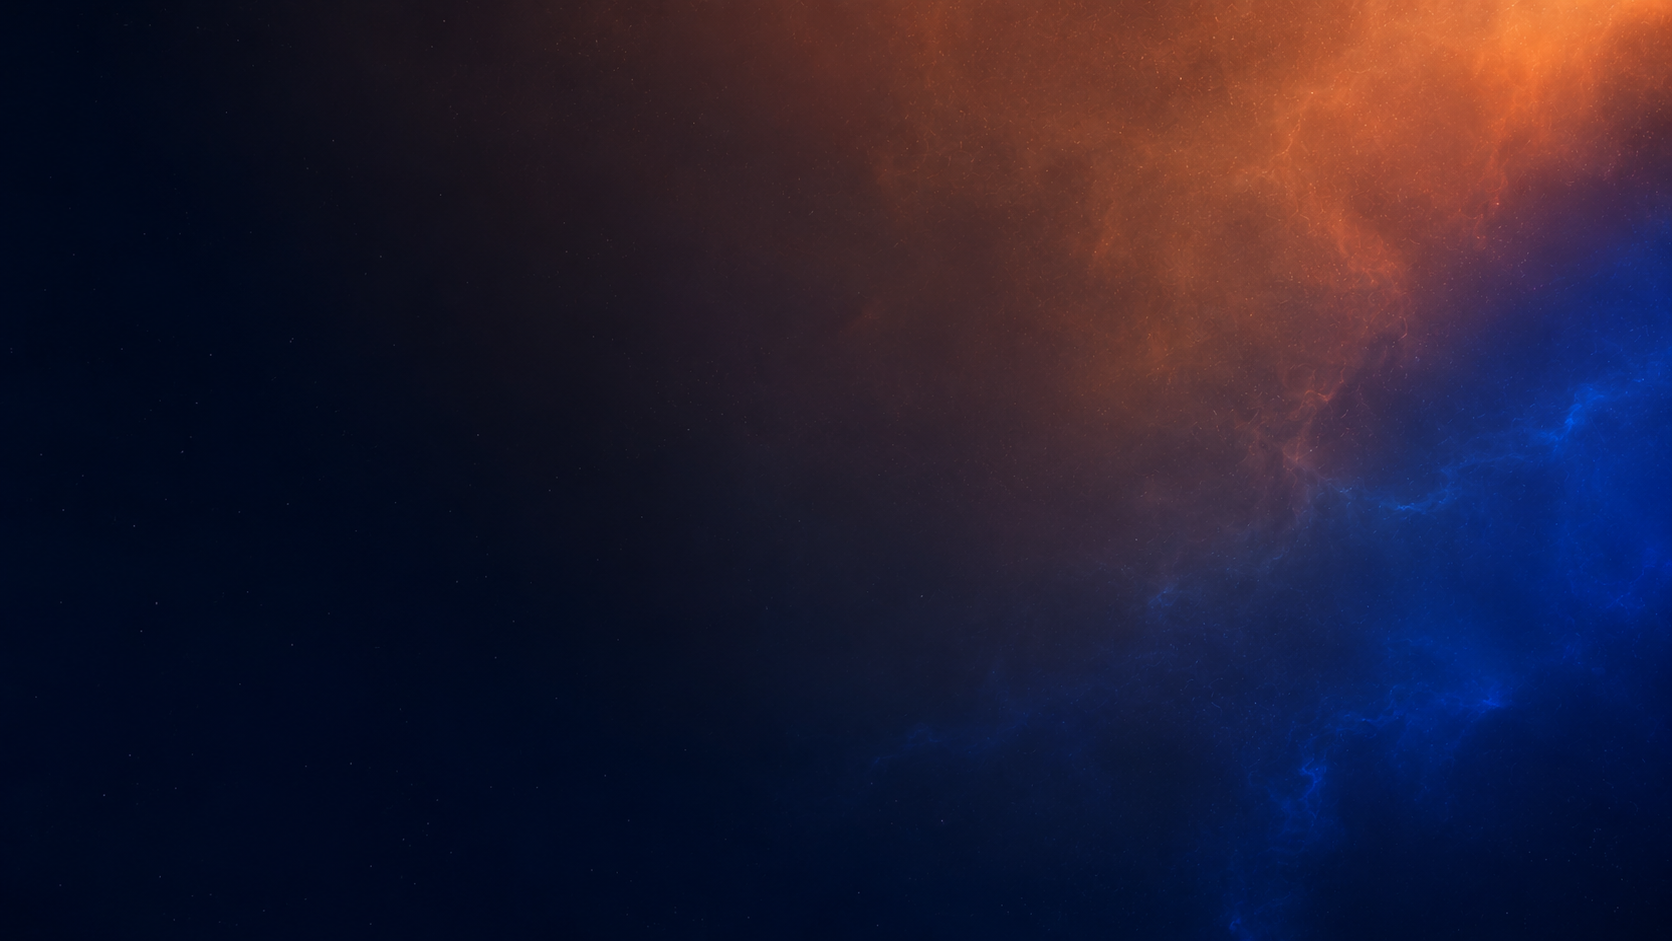
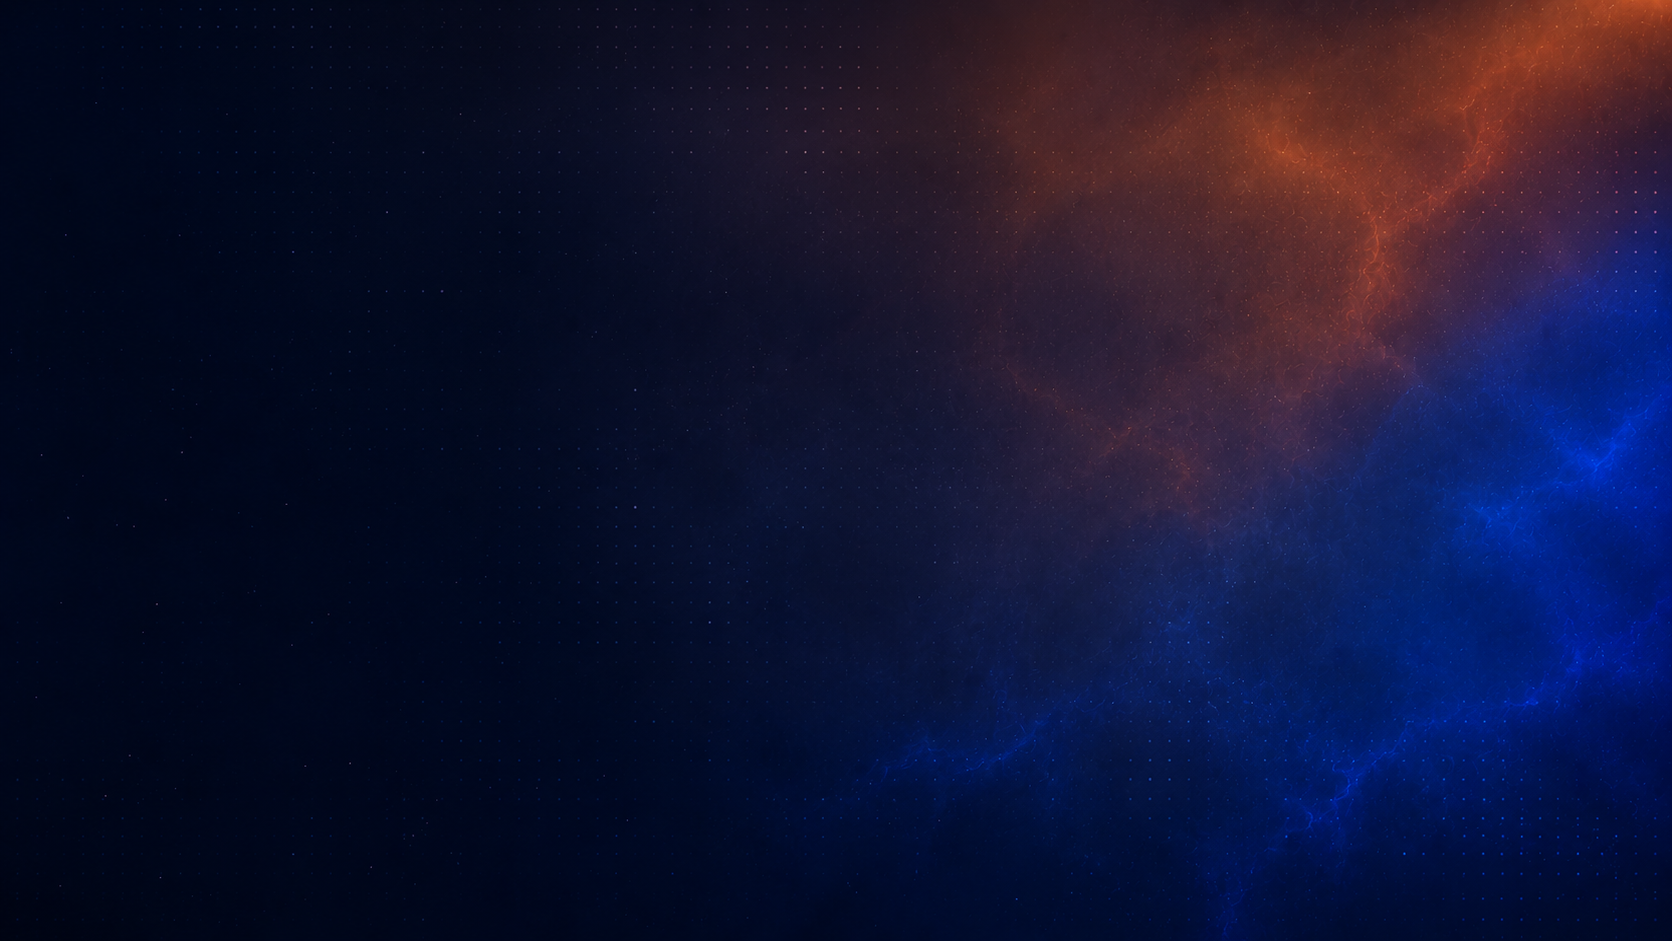
1

diff --git a/src/components/Header.jsx b/src/components/Header.jsx
@@ -20,8 +20,8 @@ export default function Header() {
   return (
     <>
       <header
-        className={`fixed top-0 left-0 right-0 z-50 px-4 sm:px-5 transition-all duration-300 ${
-          scrolled ? 'pt-3' : 'pt-4 sm:pt-5'
+        className={`fixed top-0 left-0 right-0 z-50 px-4 sm:px-6 lg:px-8 transition-all duration-300 ${
+          scrolled ? 'pt-3' : 'pt-6 sm:pt-7 lg:pt-8'
         }`}
       >
         <div
